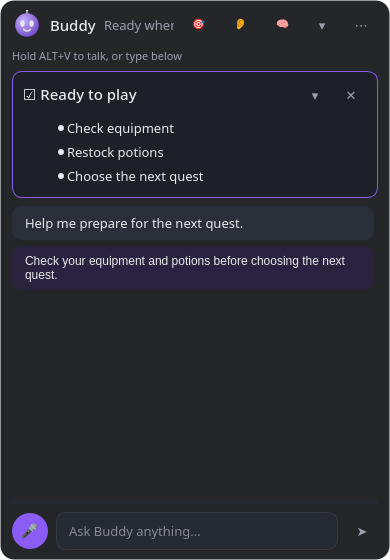
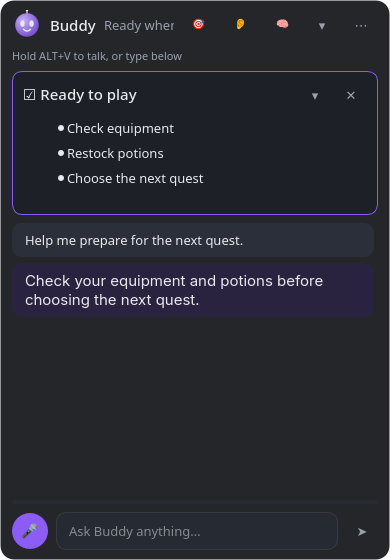
Release 0.4.2
`gamebuddy ask` now answers on the same connection so scripts and keybinds
can read the reply, and engine errors are translated in all seven UI
languages. Refresh the marketplace preview from the current panel.

🤖 Generated with Codebuff

diff --git a/src/gamebuddy/i18n.py b/src/gamebuddy/i18n.py
@@ -62,6 +62,15 @@ _STRINGS: dict[str, dict[str, str]] = {
         "you": "You",
         "notes": "Notes",
         "memory_saved": "Noted for next time.",
+        "err_superwhisper_missing": "Superwhisper not found — install it or choose another STT engine in Settings.",
+        "err_superwhisper_timeout": "Superwhisper took too long to transcribe — check `superwhisper status` and retry.",
+        "err_codex_missing": "Codex CLI not found — install it with `npm install -g @openai/codex` and run `codex login`.",
+        "err_codex_login": "Codex is not signed in — run `codex login` in a terminal (ChatGPT Plus/Pro account).",
+        "err_codex_timeout": "Codex took too long to answer — try again or lower the reasoning effort in Settings.",
+        "err_voxtype_missing": "voxtype not found — install it (Omarchy: Install > AI > Dictation) or pick another STT engine in Settings.",
+        "err_voxtype_model": "voxtype has no model yet — run `voxtype setup --download` once.",
+        "err_voxtype_timeout": "voxtype took too long to transcribe — try a smaller model (`voxtype setup`).",
+        "err_missing_key": "No API key configured — open Settings, or choose the `codex` provider (ChatGPT Plus).",
     },
     "fr": {
         "orb_mode": "Mode orbe (avatar seul)",
@@ -116,6 +125,15 @@ _STRINGS: dict[str, dict[str, str]] = {
         "you": "Toi",
         "notes": "Notes",
         "memory_saved": "Noté pour la prochaine fois.",
+        "err_superwhisper_missing": "Superwhisper introuvable — installe-le ou choisis un autre moteur de transcription dans les réglages.",
+        "err_superwhisper_timeout": "Superwhisper met trop de temps à transcrire — vérifie `superwhisper status` et réessaie.",
+        "err_codex_missing": "CLI Codex introuvable — installe-la avec `npm install -g @openai/codex` puis lance `codex login`.",
+        "err_codex_login": "Codex n'est pas connecté — lance `codex login` dans un terminal (compte ChatGPT Plus/Pro).",
+        "err_codex_timeout": "Codex met trop de temps à répondre — réessaie ou baisse le niveau de raisonnement dans les réglages.",
+        "err_voxtype_missing": "voxtype introuvable — installe-le (Omarchy : Install > AI > Dictation) ou choisis un autre moteur dans les réglages.",
+        "err_voxtype_model": "voxtype n'a pas encore de modèle — lance une fois `voxtype setup --download`.",
+        "err_voxtype_timeout": "voxtype met trop de temps à transcrire — essaie un modèle plus petit (`voxtype setup`).",
+        "err_missing_key": "Aucune clé API configurée — ouvre les réglages, ou choisis le fournisseur `codex` (ChatGPT Plus).",
     },
     "de": {
         "orb_mode": "Orb-Modus (nur Avatar)",
@@ -170,6 +188,15 @@ _STRINGS: dict[str, dict[str, str]] = {
         "you": "Du",
         "notes": "Notizen",
         "memory_saved": "Für das nächste Mal notiert.",
+        "err_superwhisper_missing": "Superwhisper nicht gefunden — installiere es oder wähle in den Einstellungen eine andere STT-Engine.",
+        "err_superwhisper_timeout": "Superwhisper braucht zu lange zum Transkribieren — prüfe `superwhisper status` und versuche es erneut.",
+        "err_codex_missing": "Codex-CLI nicht gefunden — installiere sie mit `npm install -g @openai/codex` und führe `codex login` aus.",
+        "err_codex_login": "Codex ist nicht angemeldet — führe `codex login` in einem Terminal aus (ChatGPT-Plus/Pro-Konto).",
+        "err_codex_timeout": "Codex braucht zu lange für die Antwort — versuche es erneut oder senke den Reasoning-Aufwand in den Einstellungen.",
+        "err_voxtype_missing": "voxtype nicht gefunden — installiere es (Omarchy: Install > AI > Dictation) oder wähle eine andere STT-Engine.",
+        "err_voxtype_model": "voxtype hat noch kein Modell — führe einmal `voxtype setup --download` aus.",
+        "err_voxtype_timeout": "voxtype braucht zu lange zum Transkribieren — versuche ein kleineres Modell (`voxtype setup`).",
+        "err_missing_key": "Kein API-Schlüssel konfiguriert — öffne die Einstellungen oder wähle den Anbieter `codex` (ChatGPT Plus).",
     },
     "es": {
         "orb_mode": "Modo orbe (solo avatar)",
@@ -224,6 +251,15 @@ _STRINGS: dict[str, dict[str, str]] = {
         "you": "Tú",
         "notes": "Notas",
         "memory_saved": "Anotado para la próxima vez.",
+        "err_superwhisper_missing": "No se encuentra Superwhisper — instálalo o elige otro motor de transcripción en los ajustes.",
+        "err_superwhisper_timeout": "Superwhisper tarda demasiado en transcribir — comprueba `superwhisper status` y vuelve a intentarlo.",
+        "err_codex_missing": "No se encuentra la CLI de Codex — instálala con `npm install -g @openai/codex` y ejecuta `codex login`.",
+        "err_codex_login": "Codex no tiene sesión iniciada — ejecuta `codex login` en una terminal (cuenta ChatGPT Plus/Pro).",
+        "err_codex_timeout": "Codex tarda demasiado en responder — inténtalo de nuevo o baja el nivel de razonamiento en los ajustes.",
+        "err_voxtype_missing": "No se encuentra voxtype — instálalo (Omarchy: Install > AI > Dictation) o elige otro motor en los ajustes.",
+        "err_voxtype_model": "voxtype aún no tiene modelo — ejecuta `voxtype setup --download` una vez.",
+        "err_voxtype_timeout": "voxtype tarda demasiado en transcribir — prueba un modelo más pequeño (`voxtype setup`).",
+        "err_missing_key": "No hay clave API configurada — abre los ajustes o elige el proveedor `codex` (ChatGPT Plus).",
     },
     "it": {
         "orb_mode": "Modalità orb (solo avatar)",
@@ -278,6 +314,15 @@ _STRINGS: dict[str, dict[str, str]] = {
         "you": "Tu",
         "notes": "Note",
         "memory_saved": "Segnato per la prossima volta.",
+        "err_superwhisper_missing": "Superwhisper non trovato — installalo o scegli un altro motore di trascrizione nelle impostazioni.",
+        "err_superwhisper_timeout": "Superwhisper impiega troppo tempo a trascrivere — controlla `superwhisper status` e riprova.",
+        "err_codex_missing": "CLI Codex non trovata — installala con `npm install -g @openai/codex` ed esegui `codex login`.",
+        "err_codex_login": "Codex non ha l'accesso effettuato — esegui `codex login` in un terminale (account ChatGPT Plus/Pro).",
+        "err_codex_timeout": "Codex impiega troppo tempo a rispondere — riprova o abbassa il livello di ragionamento nelle impostazioni.",
+        "err_voxtype_missing": "voxtype non trovato — installalo (Omarchy: Install > AI > Dictation) o scegli un altro motore nelle impostazioni.",
+        "err_voxtype_model": "voxtype non ha ancora un modello — esegui una volta `voxtype setup --download`.",
+        "err_voxtype_timeout": "voxtype impiega troppo tempo a trascrivere — prova un modello più piccolo (`voxtype setup`).",
+        "err_missing_key": "Nessuna chiave API configurata — apri le impostazioni o scegli il provider `codex` (ChatGPT Plus).",
     },
     "pt-BR": {
         "orb_mode": "Modo orbe (só o avatar)",
@@ -332,6 +377,15 @@ _STRINGS: dict[str, dict[str, str]] = {
         "you": "Você",
         "notes": "Notas",
         "memory_saved": "Anotado para a próxima vez.",
+        "err_superwhisper_missing": "Superwhisper não encontrado — instale ou escolha outro motor de transcrição nas configurações.",
+        "err_superwhisper_timeout": "O Superwhisper está demorando demais para transcrever — verifique `superwhisper status` e tente de novo.",
+        "err_codex_missing": "CLI do Codex não encontrada — instale com `npm install -g @openai/codex` e rode `codex login`.",
+        "err_codex_login": "O Codex não está conectado — rode `codex login` num terminal (conta ChatGPT Plus/Pro).",
+        "err_codex_timeout": "O Codex está demorando demais para responder — tente de novo ou diminua o nível de raciocínio nas configurações.",
+        "err_voxtype_missing": "voxtype não encontrado — instale (Omarchy: Install > AI > Dictation) ou escolha outro motor nas configurações.",
+        "err_voxtype_model": "o voxtype ainda não tem modelo — rode `voxtype setup --download` uma vez.",
+        "err_voxtype_timeout": "o voxtype está demorando demais para transcrever — tente um modelo menor (`voxtype setup`).",
+        "err_missing_key": "Nenhuma chave de API configurada — abra as configurações ou escolha o provedor `codex` (ChatGPT Plus).",
     },
 }
 _STRINGS["pt-PT"] = {

diff --git a/src/gamebuddy/ui/app.py b/src/gamebuddy/ui/app.py
@@ -42,23 +42,25 @@ from gamebuddy.ui.widget import BuddyWidget
 
 log = logging.getLogger(__name__)
 
+# Engine error codes → i18n keys, so the friendly text follows the UI language.
 _FRIENDLY = {
-    "superwhisper_not_installed": "Superwhisper not found — install it or choose another STT engine in Settings.",
-    "superwhisper_timeout": "Superwhisper took too long to transcribe — check `superwhisper status` and retry.",
-    "codex_not_installed": "Codex CLI not found — install it with `npm install -g @openai/codex` and run `codex login`.",
-    "codex_not_logged_in": "Codex is not signed in — run `codex login` in a terminal (ChatGPT Plus/Pro account).",
-    "codex_timeout": "Codex took too long to answer — try again or lower the reasoning effort in Settings.",
-    "voxtype_not_installed": "voxtype not found — install it (Omarchy: Install > AI > Dictation) or pick another STT engine in Settings.",
-    "voxtype_no_model": "voxtype has no model yet — run `voxtype setup --download` once.",
-    "voxtype_timeout": "voxtype took too long to transcribe — try a smaller model (`voxtype setup`).",
-    "missing_api_key": "No API key configured — open Settings, or choose the `codex` provider (ChatGPT Plus).",
+    "superwhisper_not_installed": "err_superwhisper_missing",
+    "superwhisper_timeout": "err_superwhisper_timeout",
+    "codex_not_installed": "err_codex_missing",
+    "codex_not_logged_in": "err_codex_login",
+    "codex_timeout": "err_codex_timeout",
+    "voxtype_not_installed": "err_voxtype_missing",
+    "voxtype_no_model": "err_voxtype_model",
+    "voxtype_timeout": "err_voxtype_timeout",
+    "missing_api_key": "err_missing_key",
 }
 
 
-def friendly_error(message: str) -> str:
-    for key, text in _FRIENDLY.items():
-        if key in message:
-            return text
+def friendly_error(message: str, tr: Translator | None = None) -> str:
+    translator = tr or Translator("en")
+    for code, key in _FRIENDLY.items():
+        if code in message:
+            return translator(key)
     return message
 
 
@@ -450,7 +452,7 @@ class GameBuddyApp(QObject):
             key = "error_no_key" if "missing_api_key" in str(exc) else "error_generic"
             self.bridge.error.emit(self.tr(key, error=str(exc)))
         except Exception as exc:  # noqa: BLE001
-            self.bridge.error.emit(self.tr("error_generic", error=friendly_error(str(exc))))
+            self.bridge.error.emit(self.tr("error_generic", error=friendly_error(str(exc), self.tr)))
 
     def _on_reply_done(self, text: str) -> None:
         self.widget.end_stream(text)
@@ -482,7 +484,7 @@ class GameBuddyApp(QObject):
 
     def _on_error(self, message: str) -> None:
         self.widget.end_stream("")
-        self.widget.add_error(friendly_error(message))
+        self.widget.add_error(friendly_error(message, self.tr))
         self.widget.set_status("ready")
 
     # ---- voice: push-to-talk -------------------------------------------------
@@ -550,7 +552,7 @@ class GameBuddyApp(QObject):
             key = "error_no_key" if "missing_api_key" in str(exc) else "error_generic"
             self.bridge.error.emit(self.tr(key, error=str(exc)))
         except Exception as exc:  # noqa: BLE001
-            self.bridge.error.emit(self.tr("error_generic", error=friendly_error(str(exc))))
+            self.bridge.error.emit(self.tr("error_generic", error=friendly_error(str(exc), self.tr)))
 
     # ---- voice: hands-free ---------------------------------------------------
     def toggle_hands_free(self) -> None:
@@ -717,8 +719,24 @@ class GameBuddyApp(QObject):
                 }
             except Exception as exc:  # noqa: BLE001
                 return {"ok": False, "error": str(exc)}
+        if cmd == "ask" and req.get("wait"):
+            # Scriptable ask: answer on this connection instead of queueing to the UI.
+            return self._ask_blocking(str(req.get("text", "")).strip())
         self.bridge.command.emit(req)
         return {"ok": True, "queued": cmd}
+
+    def _ask_blocking(self, text: str) -> dict[str, Any]:
+        """One exchange on the calling thread; returns the reply text or the error."""
+        if not text:
+            return {"ok": False, "error": "empty question"}
+        if self.kin.busy:
+            return {"ok": False, "error": "busy — another question is being answered"}
+        self.bridge.user_text.emit(text)
+        self.bridge.stream_started.emit()
+        reply = self.kin.ask(text, self.capture_game())
+        if reply.strip():
+            return {"ok": True, "reply": reply}
+        return {"ok": False, "error": friendly_error(self.kin.last_error or "no answer", self.tr)}
 
     def _handle_command_gui(self, req: dict[str, Any]) -> None:
         cmd, action = req.get("cmd"), req.get("action", "toggle")

diff --git a/tests/test_ask_wait.py b/tests/test_ask_wait.py
@@ -1,0 +1,72 @@
+"""`gamebuddy ask` answers on the same connection, so scripts can use it."""
+
+import os
+
+import pytest
+
+pytest.importorskip("PySide6")
+
+
+@pytest.fixture(scope="module")
+def qapp():
+    os.environ["QT_QPA_PLATFORM"] = "offscreen"
+    from PySide6.QtWidgets import QApplication
+
+    yield QApplication.instance() or QApplication([])
+
+
+@pytest.fixture
+def app(qapp, fake_provider):
+    from gamebuddy.config import Config
+    from gamebuddy.ui.app import GameBuddyApp
+
+    cfg = Config()
+    cfg.capture.backend = "none"
+    cfg.speech.tts = "none"
+    cfg.general.onboarding_done = True
+    cfg.general.language = "fr"
+    gb = GameBuddyApp(cfg)
+    gb.kin._provider = fake_provider([{"text": "Prends le chemin de gauche."}])
+    gb.start()
+    try:
+        yield gb
+    finally:
+        gb.ipc.stop()
+        gb.widget.close()
+        gb.store.close()
+
+
+def test_ask_prints_the_answer(app, capsys):
+    from gamebuddy import cli
+
+    assert cli.main(["ask", "où", "aller ?"]) == 0
+    assert "Prends le chemin de gauche." in capsys.readouterr().out
+
+
+def test_ask_reports_the_engine_error_in_the_ui_language(app, capsys):
+    from gamebuddy import cli
+
+    class Boom:
+        name = "boom"
+        model = "boom"
+
+        def supports_vision(self):
+            return False
+
+        def chat(self, **kwargs):
+            raise RuntimeError("codex_not_logged_in: no session")
+
+    app.kin._provider = Boom()
+    assert cli.main(["ask", "et maintenant ?"]) == 1
+    err = capsys.readouterr().err
+    assert "Codex n'est pas connecté" in err
+    assert "codex_not_logged_in" not in err
+
+
+def test_friendly_errors_follow_the_language():
+    from gamebuddy.i18n import Translator
+    from gamebuddy.ui.app import friendly_error
+
+    assert friendly_error("missing_api_key", Translator("de")).startswith("Kein API-Schlüssel")
+    assert friendly_error("missing_api_key", Translator("en")).startswith("No API key")
+    assert friendly_error("something else", Translator("fr")) == "something else"

diff --git a/src/gamebuddy/cli.py b/src/gamebuddy/cli.py
@@ -263,8 +263,10 @@ def main(argv: list[str] | None = None) -> int:
     sub.add_parser("run", help="start the widget (default)")
     ptt = sub.add_parser("ptt", help="push-to-talk control")
     ptt.add_argument("action", choices=["start", "stop", "toggle"], nargs="?", default="toggle")
-    ask = sub.add_parser("ask", help="send a text question to the running widget")
+    ask = sub.add_parser("ask", help="ask a question and print the answer")
     ask.add_argument("text", nargs="+")
+    ask.add_argument("--no-wait", action="store_true", help="return immediately, without the answer")
+    ask.add_argument("--timeout", type=float, default=300.0, help="seconds to wait for the answer")
     sub.add_parser("toggle", help="show/hide the widget")
     sub.add_parser("show")
     sub.add_parser("hide")
@@ -308,7 +310,22 @@ def main(argv: list[str] | None = None) -> int:
     if cmd == "ptt":
         return _send({"cmd": "ptt", "action": args.action})
     if cmd == "ask":
-        return _send({"cmd": "ask", "text": " ".join(args.text)})
+        text = " ".join(args.text)
+        if args.no_wait:
+            return _send({"cmd": "ask", "text": text})
+        if not is_running():
+            print("gamebuddy: widget is not running (start it with `gamebuddy`)", file=sys.stderr)
+            return 3
+        try:
+            resp = send_command({"cmd": "ask", "text": text, "wait": True}, timeout=args.timeout)
+        except TimeoutError:
+            print(f"gamebuddy: no answer after {args.timeout:g}s", file=sys.stderr)
+            return 1
+        if not resp.get("ok"):
+            print(f"gamebuddy: {resp.get('error', 'no answer')}", file=sys.stderr)
+            return 1
+        print(resp.get("reply", ""))
+        return 0
     if cmd in ("toggle", "show", "hide", "status", "unpin", "settings", "ai-settings", "quit"):
         return _send({"cmd": cmd})
     if cmd == "windows":

diff --git a/src/gamebuddy/kin.py b/src/gamebuddy/kin.py
@@ -45,6 +45,7 @@ class Kin:
         self.game_title = ""
         self.language = "en"
         self.busy = False
+        self.last_error = ""  # why the last exchange produced no reply
 
     # ---- provider --------------------------------------------------------
     @property
@@ -63,10 +64,12 @@ class Kin:
             return ""
         with self._lock:
             self.busy = True
+            self.last_error = ""
             try:
                 return self._ask(text.strip(), screenshot, media_type)
             except Exception as exc:  # noqa: BLE001
                 log.warning("ask failed: %s", exc)
+                self.last_error = str(exc)
                 self.cb.on_error(str(exc))
                 return ""
             finally:

diff --git a/src/gamebuddy/__init__.py b/src/gamebuddy/__init__.py
@@ -1,5 +1,5 @@
 """GameBuddy — voice-first AI gaming companion for Linux."""
 
-__version__ = "0.4.1"
+__version__ = "0.4.2"
 APP_ID = "gamebuddy"
 ASSISTANT_DEFAULT_NAME = "Buddy"

diff --git a/README.fr.md b/README.fr.md
@@ -306,7 +306,7 @@ en fenêtré / plein écran sans bordure. La prise en charge du plein écran exc
 |---|---|
 | `gamebuddy` | lance le widget (instance unique) |
 | `gamebuddy ptt start\|stop\|toggle` | push-to-talk |
-| `gamebuddy ask "quel objet ?"` | pose une question depuis un script |
+| `gamebuddy ask "quel objet ?"` | pose une question depuis un script et affiche la réponse (`--no-wait` pour ne pas attendre) |
 | `gamebuddy toggle` / `show` / `hide` | visibilité du widget |
 | `gamebuddy listen on\|off` | écoute mains libres |
 | `gamebuddy coach on\|off` | mode coach |
@@ -324,7 +324,7 @@ en fenêtré / plein écran sans bordure. La prise en charge du plein écran exc
 
 ## État du projet
 
-Version actuelle : **0.4.1**. La validation de structure et de compatibilité Quattro du marketplace Omarchy est passée. Un mainteneur a approuvé la révision `b73930d` après revue des capacités ; cette version est soumise comme révision publiée suivante. Le moteur nécessite une installation manuelle : [suivre la demande et la publication](https://github.com/omacom/omarchy-plugin-marketplace/issues/14633).
+Version actuelle : **0.4.2**. La validation de structure et de compatibilité Quattro du marketplace Omarchy est passée. Un mainteneur a approuvé la révision `b73930d` après revue des capacités ; cette version est soumise comme révision publiée suivante. Le moteur nécessite une installation manuelle : [suivre la demande et la publication](https://github.com/omacom/omarchy-plugin-marketplace/issues/14633).
 
 Sur les autres backends utilisant une capture par région, une fenêtre qui recouvre le jeu
 peut apparaître dans l’image ; Hyprland utilise la capture directe de fenêtre.

diff --git a/README.md b/README.md
@@ -355,7 +355,7 @@ GNOME, KDE and X11 users bind the same commands with their desktop's shortcut se
 |---|---|
 | `gamebuddy` | start the widget (single instance) |
 | `gamebuddy ptt start\|stop\|toggle` | push-to-talk |
-| `gamebuddy ask "which item?"` | type a question from a script |
+| `gamebuddy ask "which item?"` | ask from a script and print the answer (`--no-wait` to fire and forget) |
 | `gamebuddy toggle` / `show` / `hide` | widget visibility |
 | `gamebuddy listen on\|off` | hands-free listening |
 | `gamebuddy coach on\|off` | coach mode |
@@ -388,7 +388,7 @@ compositor behaviour need a desktop session.
 
 ## Status
 
-Current version: **0.4.1**. The Omarchy marketplace submission passed structural and Quattro validation, and a maintainer approved revision `b73930d` after capability review; this release is submitted as the next published revision. The engine requires manual setup. Track the current [submission and listing status](https://github.com/omacom/omarchy-plugin-marketplace/issues/14633).
+Current version: **0.4.2**. The Omarchy marketplace submission passed structural and Quattro validation, and a maintainer approved revision `b73930d` after capability review; this release is submitted as the next published revision. The engine requires manual setup. Track the current [submission and listing status](https://github.com/omacom/omarchy-plugin-marketplace/issues/14633).
 
 Known limits:
 

diff --git a/docs/PROTOCOL.md b/docs/PROTOCOL.md
@@ -9,7 +9,8 @@ One request per line; one response per line.
 | `{"cmd":"status"}` | `{"ok":true,"visible":…,"window":…,"recording":…,"hands_free":…,"coach":…,"busy":…,"backend":…,"language":…}` |
 | `{"cmd":"windows"}` | `{"ok":true,"windows":[{"id":…,"title":…,"app_id":…,"rect":{x,y,w,h}}]}` |
 | `{"cmd":"ptt","action":"start|stop|toggle"}` | `{"ok":true,"queued":"ptt"}` |
-| `{"cmd":"ask","text":"…"}` | queued |
+| `{"cmd":"ask","text":"…"}` | `{"ok":true,"queued":"ask"}` (fire and forget) |
+| `{"cmd":"ask","text":"…","wait":true}` | `{"ok":true,"reply":"…"}` or `{"ok":false,"error":"…"}` once answered |
 | `{"cmd":"toggle"}` / `show` / `hide` / `unpin` / `settings` / `quit` | queued |
 | `{"cmd":"listen","action":"on|off|toggle"}` | queued |
 | `{"cmd":"coach","action":"on|off|toggle"}` | queued |
@@ -22,5 +23,7 @@ Events: `{"event":"status","key":"listening"}`, `{"event":"window","title":…,"
 Example from a shell:
 
 ```bash
-printf '{"cmd":"ask","text":"which of these three items?"}\n' | socat - UNIX-CONNECT:"$XDG_RUNTIME_DIR/gamebuddy.sock"
+printf '{"cmd":"ask","text":"which of these three items?","wait":true}\n' | socat - UNIX-CONNECT:"$XDG_RUNTIME_DIR/gamebuddy.sock"
 ```
+
+`gamebuddy ask "…"` uses the waiting form and prints the answer; `--no-wait` keeps the queued form.

diff --git a/CHANGELOG.md b/CHANGELOG.md
@@ -1,5 +1,15 @@
 # Changelog
 
+## 0.4.2 — 2026-11-10
+
+- **`gamebuddy ask "…"` prints the answer**: the command waits for the reply on the same IPC
+  connection and exits non-zero with the reason when the engine fails, so it composes in scripts
+  and keybinds. `--no-wait` keeps the old fire-and-forget behaviour, and the IPC protocol gained
+  the matching `{"cmd":"ask","wait":true}` request.
+- **Engine errors follow the UI language**: missing Superwhisper, Codex login, voxtype and API-key
+  messages are translated in all seven UI languages instead of always appearing in English.
+- Refresh the marketplace preview and README screenshots from the current panel.
+
 ## 0.4.1 — 2026-11-10
 
 - **The selected game window survives a restart**: GameBuddy remembers the window you chose and
